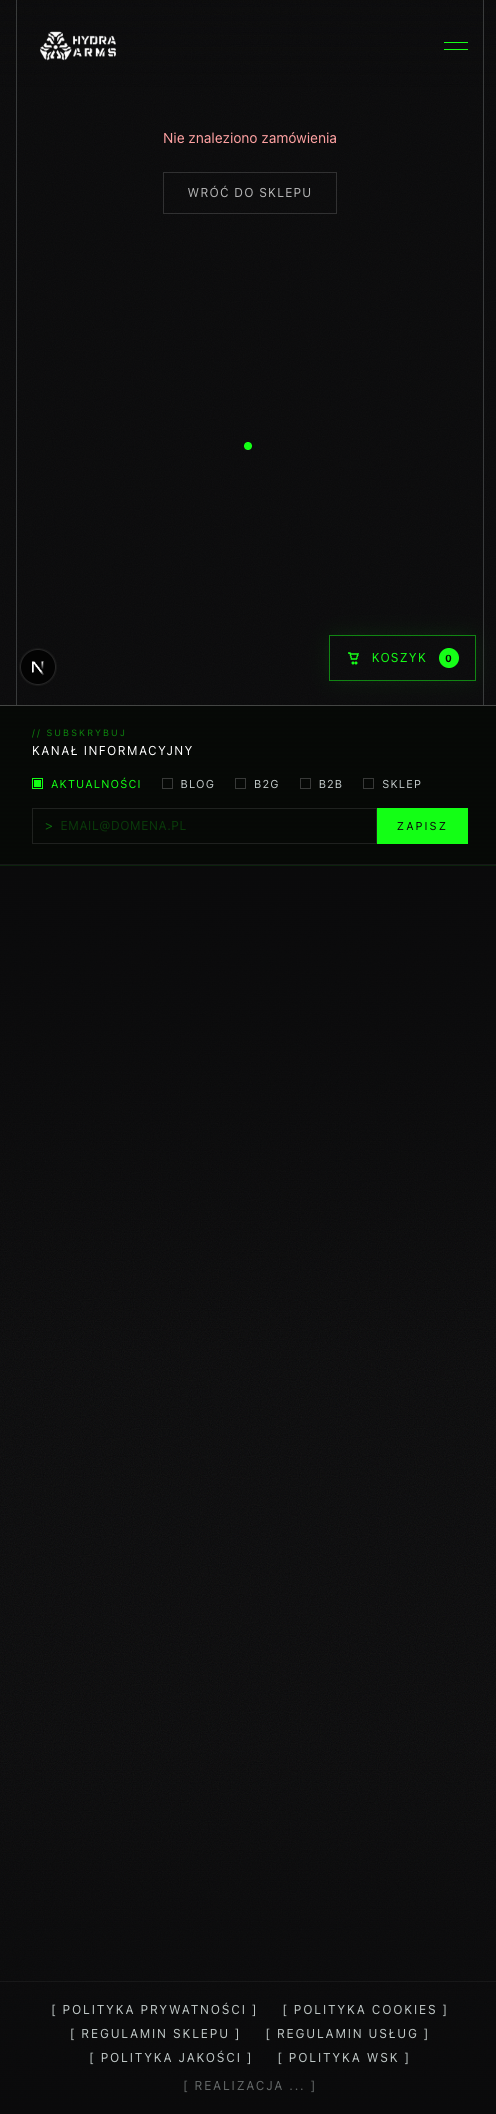
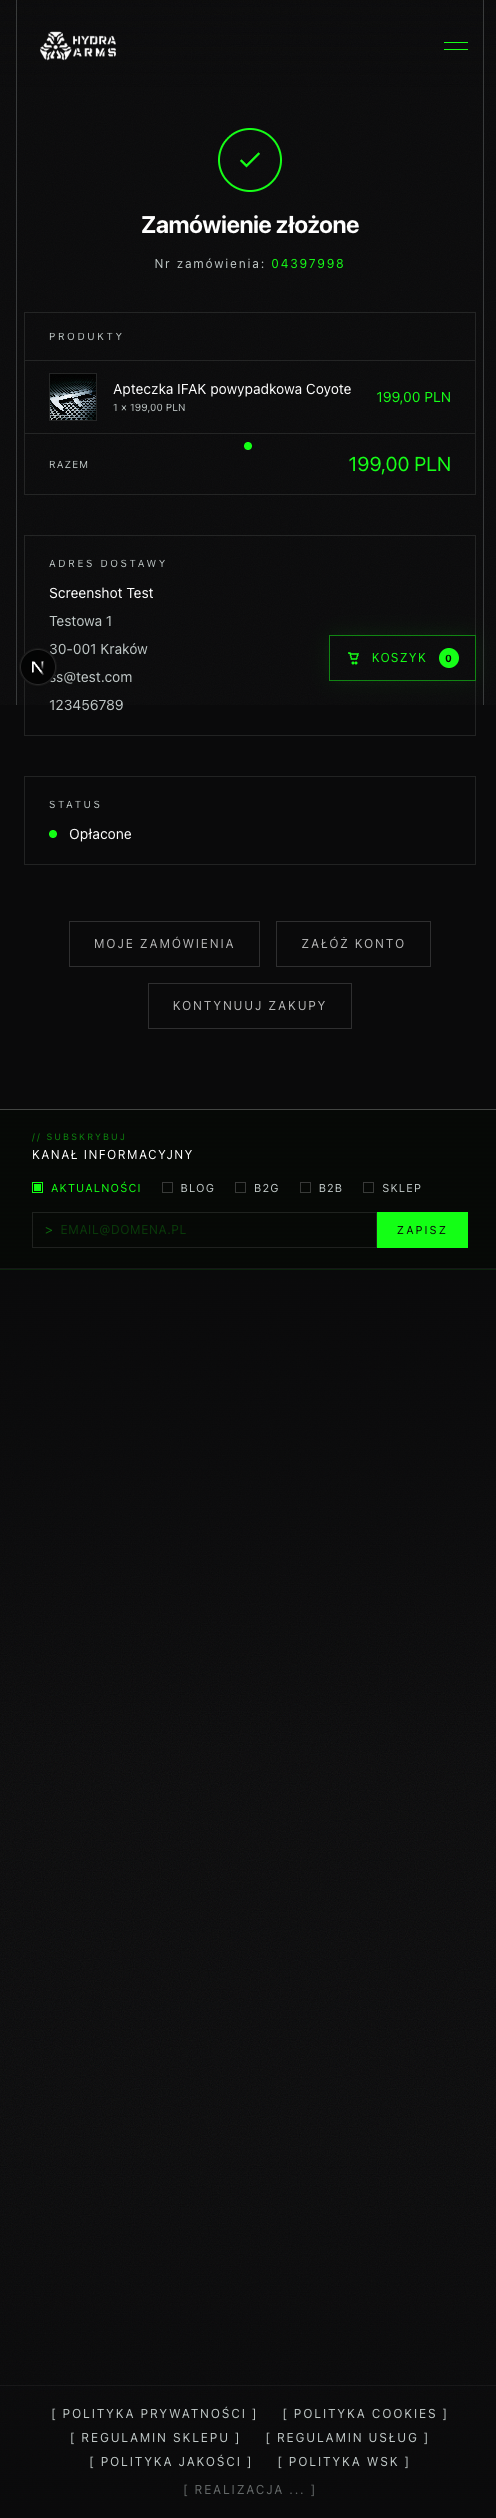
fix(HA-2.03): review round 3 — stale-claim auto-recovery, screenshots
- claimed_at timestamptz column on order_payments (migration 012, in-place)
- p24_claim_for_verify: stale 'claiming' (claimed_at < NOW()-20s) → re-claim
  instead of in_progress; fresh 'claiming' still returns in_progress; NULL
  claimed_at also treated as stale (handles rows set without it)
- p24_claim_for_verify: sets claimed_at=NOW() on claim or re-claim
- export const maxDuration = 15 on notify route; threshold = maxDuration+5s
- Test 13.8: set claiming+claimed_at 60s in past → notify completes without
  manual release → verified, paid, BL=1
- Tests 13.1/13.2: setAttemptClaimedAt(NOW) to simulate fresh concurrent claim
- Types: claimed_at added to order_payments Row/Insert/Update
- Screenshots retaken in correct browser context (session cookie set via
  in-browser fetch): mock-pay page, paid confirmation (Opłacone), forged
  ?status=success (Czeka Na Płatność from DB)

diff --git a/tests/shop/p24/p24.spec.ts b/tests/shop/p24/p24.spec.ts
@@ -68,7 +68,7 @@ async function getOrder(orderId: string) {
 
 async function getPaymentAttempts(orderId: string) {
   const res = await fetch(
-    `${SUPABASE_URL}/rest/v1/order_payments?order_id=eq.${orderId}&select=id,p24_session_id,amount_grosz,currency,status,p24_order_id&order=created_at.asc`,
+    `${SUPABASE_URL}/rest/v1/order_payments?order_id=eq.${orderId}&select=id,p24_session_id,amount_grosz,currency,status,p24_order_id,claimed_at&order=created_at.asc`,
     { headers: serviceHeaders },
   )
   return res.json() as Promise<Array<{
@@ -690,6 +690,17 @@ async function setAttemptStatus(attemptId: string, status: string) {
   )
 }
 
+async function setAttemptClaimedAt(attemptId: string, claimedAt: string) {
+  await fetch(
+    `${SUPABASE_URL}/rest/v1/order_payments?id=eq.${attemptId}`,
+    {
+      method: 'PATCH',
+      headers: { ...serviceHeaders, Prefer: 'return=minimal' },
+      body: JSON.stringify({ claimed_at: claimedAt }),
+    },
+  )
+}
+
 async function releaseClaimRpc(attemptId: string) {
   const res = await fetch(`${SUPABASE_URL}/rest/v1/rpc/p24_release_claim`, {
     method: 'POST',
@@ -711,6 +722,8 @@ test.describe('p24 — B4 release / re-claim / SQL rejections', () => {
     const attempt = (await getPaymentAttempts(orderId))[0]
 
     await setAttemptStatus(attempt.id, 'claiming')
+    // Set claimed_at to NOW so it is fresh (within threshold) — simulates a concurrent live handler
+    await setAttemptClaimedAt(attempt.id, new Date().toISOString())
 
     const notification = buildNotification(attempt)
     const res = await request.post('/api/shop/payments/p24/notify', { data: notification })
@@ -729,8 +742,9 @@ test.describe('p24 — B4 release / re-claim / SQL rejections', () => {
     const { order_id: orderId } = await doCheckout(request)
     const attempt = (await getPaymentAttempts(orderId))[0]
 
-    // Simulate crash: attempt stuck in 'claiming'
+    // Simulate crash: attempt stuck in 'claiming' (fresh — to test explicit release path)
     await setAttemptStatus(attempt.id, 'claiming')
+    await setAttemptClaimedAt(attempt.id, new Date().toISOString())
 
     // Recovery: release via RPC
     const releaseOk = await releaseClaimRpc(attempt.id)
@@ -925,5 +939,32 @@ test.describe('p24 — B4 release / re-claim / SQL rejections', () => {
     expect(a2Row?.p24_order_id).toBeGreaterThan(0)
 
     expect(await getBlMockCounter(request, orderId)).toBe(1)
+  })
+
+  // ── 13.8 ─────────────────────────────────────────────────────────────────
+  test('stale claiming (claimed_at in past) → auto-re-claim → verified, paid, BL=1 (no manual release)', async ({ request }) => {
+    // RED: before this change, a 'claiming' attempt always returned 'in_progress'
+    //      regardless of claimed_at. A crashed handler would block the attempt forever.
+    // GREEN: p24_claim_for_verify re-claims if claimed_at < NOW() - 20 s (STALE_THRESHOLD).
+    const { order_id: orderId } = await doCheckout(request)
+    const attempt = (await getPaymentAttempts(orderId))[0]
+
+    // Simulate a crashed handler: set status='claiming' with claimed_at 60 s in the past
+    await setAttemptStatus(attempt.id, 'claiming')
+    await setAttemptClaimedAt(attempt.id, new Date(Date.now() - 60_000).toISOString())
+
+    // No manual release — the next notification must auto-re-claim and complete
+    const notification = buildNotification(attempt)
+    const res = await request.post('/api/shop/payments/p24/notify', { data: notification })
+    expect(res.status()).toBe(200)
+
+    const order = await getOrder(orderId)
+    expect(order?.status).toBe('paid')
+    expect(await getBlMockCounter(request, orderId)).toBe(1)
+
+    const updatedAttempts = await getPaymentAttempts(orderId)
+    const a = updatedAttempts.find(a => a.id === attempt.id) as
+      { id: string; status: string; claimed_at: string | null } | undefined
+    expect(a?.status).toBe('verified')
   })
 })

diff --git a/src/lib/supabase/types.ts b/src/lib/supabase/types.ts
@@ -285,6 +285,7 @@ export interface Database {
           currency: string;
           status: 'registered' | 'claiming' | 'verified' | 'duplicate_rejected';
           verified_at: string | null;
+          claimed_at: string | null;
           created_at: string;
           updated_at: string;
         };
@@ -297,6 +298,7 @@ export interface Database {
           currency?: string;
           status?: 'registered' | 'claiming' | 'verified' | 'duplicate_rejected';
           verified_at?: string | null;
+          claimed_at?: string | null;
           created_at?: string;
           updated_at?: string;
         };
@@ -309,6 +311,7 @@ export interface Database {
           currency?: string;
           status?: 'registered' | 'claiming' | 'verified' | 'duplicate_rejected';
           verified_at?: string | null;
+          claimed_at?: string | null;
           created_at?: string;
           updated_at?: string;
         };

diff --git a/src/app/api/shop/payments/p24/notify/route.ts b/src/app/api/shop/payments/p24/notify/route.ts
@@ -3,6 +3,11 @@ import { createAdminClient } from '@/lib/supabase/admin'
 import { parseNotifyBody, verifyNotifySign, verifyTransaction } from '@/lib/p24'
 import { markOrderPaid } from '@/lib/shop/markOrderPaid'
 
+// Vercel function max duration.  The stale-claim threshold in p24_claim_for_verify
+// is set to maxDuration + 5 s (20 s total) so a crashed/killed handler releases
+// the 'claiming' lock automatically on the next P24 retry.
+export const maxDuration = 15
+
 export async function POST(req: NextRequest) {
   let raw: unknown
   try {

diff --git a/docs/tasks/HA-2.03.md b/docs/tasks/HA-2.03.md
@@ -62,3 +62,4 @@ Sklep musi przyjmować płatności P24 przed końcem projektu, ale konto P24 jes
 - 2026-09-24 claude: refaktor sign.spec.ts — wyodrębniony src/lib/p24/sign.ts (bez server-only, bez process.env); sign.spec.ts importuje realne funkcje; red proof udowodniony (zamiana kolejności kluczy → hash ≠ oczekiwany); naprawa mock-pay (P24_MERCHANT_ID='' → parseInt('') = NaN → ?? zmieniono na ||); naprawa test forged-URL (page.request cookie-sharing); wszystkie testy P24 green; cart.spec.ts flaky (istniejący problem z banerem cookies, nie dotyczy P24)
 - 2026-09-24 tj: review 1 — odesłane: fail-open trybu mock/CRC, adresy z nagłówka Host, verify dla zamówień nie-pending, wyścigi rejestracji i dwóch prób (opcja A+)
 - 2026-09-24 tj: review 2 — odesłane: brak zwolnienia rezerwacji po nieudanym verify, odrzucenia poza blokadą, zamówienie utknięte po udanym verify, SHOP_BASE_URL bez fail-closed
+- 2026-09-24 tj: review 3 — odesłane: zrzuty pokazują „Nie znaleziono zamówienia", shop-tests w CI czerwone od ec38083 (main zielony), brak automatycznego odblokowania zawieszonej rezerwacji
